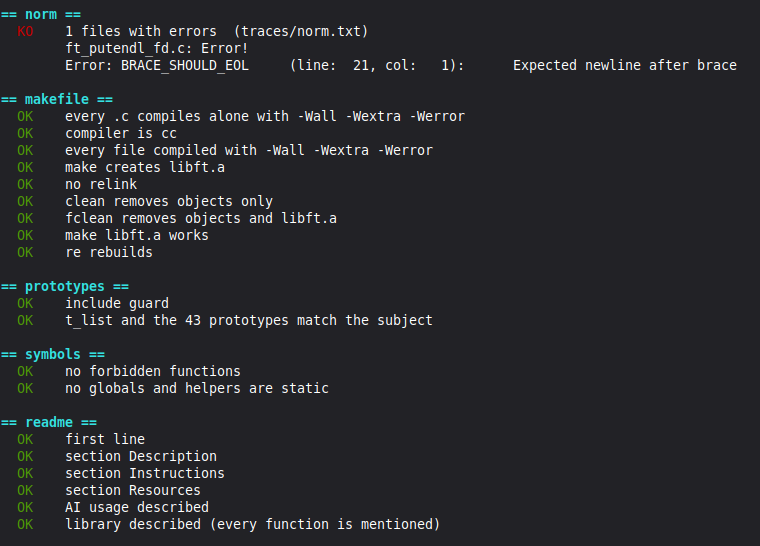
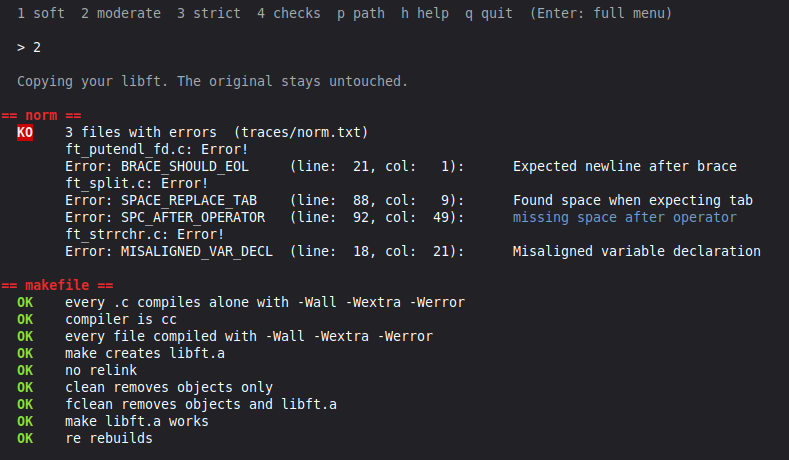
updated new pics for preview, changed small lines for messages at the score/color

diff --git a/utils/check.c b/utils/check.c
@@ -4,7 +4,7 @@
 #include <stdlib.h>
 #include <unistd.h>
 
-#define PASS "\033[1;97m"
+#define PASS "\033[1;32m"
 #define FAIL "\033[1;97;41m"
 #define RST "\033[0m"
 

diff --git a/README.md b/README.md
@@ -249,7 +249,7 @@ One file per function in `tests/`. Each one checks
 
 | Word | Meaning |
 |---|---|
-| `OK` | the check or test passed. White |
+| `OK` | the check or test passed. Green |
 | `KO` | it failed. See the file in `traces/`. White on red |
 | `WARN` | not a fail, but look at it. With `strict` it is a `KO` |
 | `MEM OK` | valgrind found no leaks and no invalid reads or writes in that function |
@@ -279,11 +279,14 @@ The result ends with a score out of 100 for what was run
 ```
 == result ==
   score      ███████████████████░  97 / 100
+             only a guide: at 42 one KO means 0
   functions  43 / 43
   checks     22 / 24
   time       22s
 
-   2 KO
+  ALMOST THEAAA DOGG CHECK IT OUTT
+
+   2 KO   at 42 this run would be a 0
     files: not a git repo, cannot check tracked files (warning, strict)
     norm: 3 files with errors
 ```
@@ -295,9 +298,16 @@ The result ends with a score out of 100 for what was run
 
 - a function counts when all its tests pass and valgrind finds nothing
 - with one KO or more the score is never 100
-- with no KO you get `CONGRATS, ALL PASSED`
+- with no KO you get `CONGRATZ MY G-DOGO, U GOOD TO GO NOW B)`, in green
+- with a KO you get a message for your score
 
-The score is only a guide. At 42 a single KO fails the project
+| Score | Message |
+|---|---|
+| below 30 | `WE GOTTA DO SMTHH ABT THIS` |
+| 30 to 69 | `AIGHT NOW WE TALKINGG` |
+| 70 to 99 | `ALMOST THEAAA DOGG CHECK IT OUTT` |
+
+**The score is only a guide.** At 42 one KO means 0, so a 97 here is a 0 there. The tester says it under the score on every run, in orange like the score, and again in red when there is a KO
 
 ## Add or change tests
 
@@ -475,7 +485,7 @@ Para no escribir `-p` cada vez, pulsa `p` en el menú una vez, o cambia `LIBFT` 
 
 | Palabra | Significa |
 |---|---|
-| `OK` | pasó. En blanco |
+| `OK` | pasó. En verde |
 | `KO` | falló. Mira el archivo en `traces/`. En blanco sobre rojo |
 | `WARN` | no es un fallo, pero conviene mirarlo. Con `strict` es un `KO` |
 | `MEM OK` | valgrind no encontró fugas ni lecturas o escrituras inválidas |
@@ -500,9 +510,16 @@ Al final sale una nota sobre 100 de lo que se ejecutó
 
 - una función cuenta si pasan todos sus tests y valgrind no encuentra nada
 - con algún KO la nota nunca es 100
-- sin ningún KO sale `CONGRATS, ALL PASSED`
+- sin ningún KO sale `CONGRATZ MY G-DOGO, U GOOD TO GO NOW B)`, en verde
+- con algún KO sale un mensaje según la nota
 
-La nota es orientativa. En 42 un solo KO suspende el proyecto
+| Nota | Mensaje |
+|---|---|
+| menos de 30 | `WE GOTTA DO SMTHH ABT THIS` |
+| de 30 a 69 | `AIGHT NOW WE TALKINGG` |
+| de 70 a 99 | `ALMOST THEAAA DOGG CHECK IT OUTT` |
+
+**La nota es solo orientativa.** En 42 un KO es un 0, así que un 97 aquí es un 0 allí. El tester lo dice debajo de la nota en cada ejecución, en naranja como la nota, y otra vez en rojo cuando hay algún KO
 
 ### Notas
 
